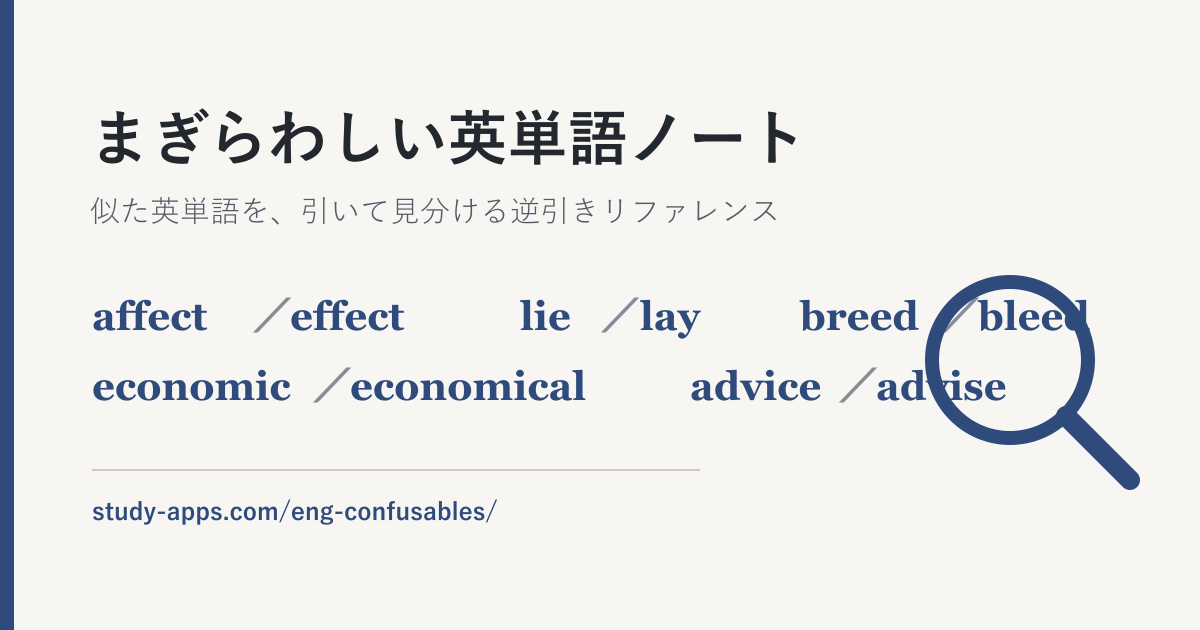
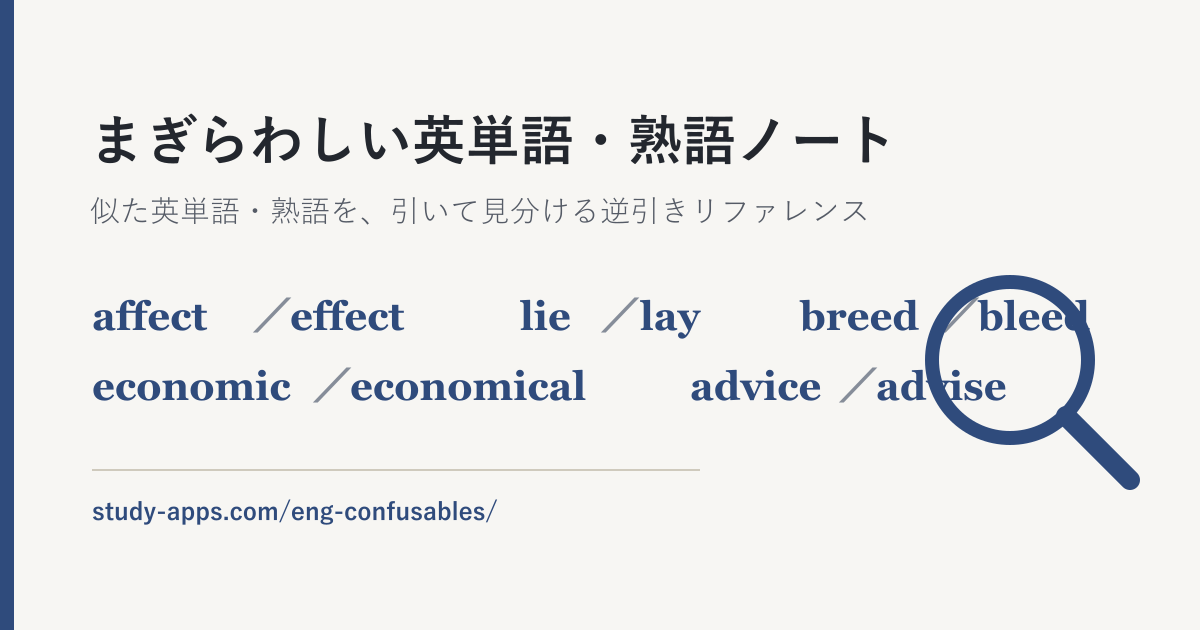
feat: O-1-5の器を用意（第5章「熟語・句動詞」の骨格・サイト名を単語→単語・熟語に更新）
第5章の内容執筆はO-1-1完了後（chapters.ts/App.tsxのカテゴリ配列に5を追加のみ、
モジュールは未追加）。サイト名・meta・OGP画像・about/privacyページの文言を
「まぎらわしい英単語ノート」→「まぎらわしい英単語・熟語ノート」に更新。
ポータルのSITES_REGISTRYは②のdeploy:root経由のため未変更。

Claude-Session: https://claude.ai/code/session_01Rg34mRc3nC2baRhoM6eXDv

Changed region(s): [[0.0617, 0.1508, 0.74, 0.2714], [0.185, 0.3016, 0.6783, 0.3619]]

diff --git a/index.html b/index.html
@@ -4,17 +4,17 @@
     <meta charset="UTF-8" />
     <link rel="icon" type="image/svg+xml" href="./favicon.svg" />
     <meta name="viewport" content="width=device-width, initial-scale=1.0" />
-    <title>まぎらわしい英単語ノート｜似た英単語を引いて見分ける</title>
-    <meta name="description" content="affect/effect、lie/lay、breed/bleed…スペル・意味・品詞・発音が似て混同しやすい英単語を、引いてすぐ違いと使い分けがわかる逆引きの比較リファレンス。比較表と例文つき。" />
-    <meta property="og:title" content="まぎらわしい英単語ノート" />
-    <meta property="og:description" content="似て混同しやすい英単語を、比較表と例文で引いて見分ける逆引きリファレンス。" />
+    <title>まぎらわしい英単語・熟語ノート｜似た英単語・熟語を引いて見分ける</title>
+    <meta name="description" content="affect/effect、lie/lay、breed/bleed…スペル・意味・品詞・発音が似て混同しやすい英単語、account for/account to のような紛らわしい熟語・句動詞を、引いてすぐ違いと使い分けがわかる逆引きの比較リファレンス。比較表と例文つき。" />
+    <meta property="og:title" content="まぎらわしい英単語・熟語ノート" />
+    <meta property="og:description" content="似て混同しやすい英単語・熟語を、比較表と例文で引いて見分ける逆引きリファレンス。" />
     <meta property="og:type" content="website" />
     <meta property="og:url" content="https://study-apps.com/eng-confusables/" />
     <link rel="canonical" href="https://study-apps.com/eng-confusables/" />
     <meta property="og:image" content="https://study-apps.com/eng-confusables/ogp.png" />
     <meta name="twitter:card" content="summary_large_image" />
-    <meta name="twitter:title" content="まぎらわしい英単語ノート" />
-    <meta name="twitter:description" content="似て混同しやすい英単語を、比較表と例文で引いて見分ける逆引きリファレンス。" />
+    <meta name="twitter:title" content="まぎらわしい英単語・熟語ノート" />
+    <meta name="twitter:description" content="似て混同しやすい英単語・熟語を、比較表と例文で引いて見分ける逆引きリファレンス。" />
     <meta name="twitter:image" content="https://study-apps.com/eng-confusables/ogp.png" />
     <!-- Google tag (gtag.js) -->
     <script async src="https://www.googletagmanager.com/gtag/js?id=G-G6K27V3P4S"></script>

diff --git a/src/App.tsx b/src/App.tsx
@@ -162,7 +162,7 @@ function Header({ route, navigate, menuOpen, setMenuOpen }: {
     <header className="site-header">
       <div className="header-inner">
         <a className="brand" href={`${BASE}/`} onClick={(e) => { e.preventDefault(); navigate({ view: 'home' }); }}>
-          まぎらわしい英単語ノート
+          まぎらわしい英単語・熟語ノート
         </a>
         <button className="menu-toggle" aria-label="メニュー" aria-expanded={menuOpen} onClick={() => setMenuOpen(!menuOpen)}>
           <span /><span /><span />
@@ -190,12 +190,12 @@ function Home({ navigate }: { navigate: (r: Route) => void }) {
     });
   }, [query, cat]);
 
-  const cats = [1, 2, 3, 4];
+  const cats = [1, 2, 3, 4, 5];
 
   return (
     <div className="home">
       <section className="hero">
-        <h1>まぎらわしい英単語を、引いて見分ける</h1>
+        <h1>まぎらわしい英単語・熟語を、引いて見分ける</h1>
         <p className="hero-lead">{SITE_META.approach}。{modules.length}組の混同ペアを、比較表とミニ問題でまとめました。</p>
         <div className="search-box">
           <Search size={18} aria-hidden="true" />
@@ -292,7 +292,7 @@ function AboutPage() {
       <h1>このサイトについて</h1>
 
       <h2>サイトの目的と対象</h2>
-      <p>「まぎらわしい英単語ノート」は、スペル・意味・品詞・発音が似ていて混同しやすい英単語のペアを、引いてすぐに違いと使い分けが分かるようにまとめた逆引きの比較リファレンスです。{SITE_META.audience}を主な対象としています。</p>
+      <p>「まぎらわしい英単語・熟語ノート」は、スペル・意味・品詞・発音が似ていて混同しやすい英単語のペア、および前置詞や副詞の違いで意味が変わる紛らわしい熟語・句動詞のペアを、引いてすぐに違いと使い分けが分かるようにまとめた逆引きの比較リファレンスです。{SITE_META.audience}を主な対象としています。</p>
 
       <h2>コンテンツ構成</h2>
       <p>混同しやすい語を「スペルが似ている語」「意味が近い語」「品詞・派生でまぎらわしい語」「発音が似ている語」の4カテゴリに分け、1ペア（または自然な語群）を1ページにまとめています。各ページに比較表・例文・覚え方・任意の確認問題を用意しています。</p>

diff --git a/scripts/generate-ogp.ts b/scripts/generate-ogp.ts
@@ -11,8 +11,8 @@ const SERIF = "Georgia,'Times New Roman',serif";
 const svg = `<svg xmlns="http://www.w3.org/2000/svg" width="1200" height="630" viewBox="0 0 1200 630">
   <rect width="1200" height="630" fill="#f7f6f3"/>
   <rect x="0" y="0" width="14" height="630" fill="#2f4b7c"/>
-  <text x="90" y="160" font-family="${FONT}" font-size="60" font-weight="700" fill="#23272e">まぎらわしい英単語ノート</text>
-  <text x="90" y="222" font-family="${FONT}" font-size="30" fill="#555b66">似た英単語を、引いて見分ける逆引きリファレンス</text>
+  <text x="90" y="160" font-family="${FONT}" font-size="54" font-weight="700" fill="#23272e">まぎらわしい英単語・熟語ノート</text>
+  <text x="90" y="222" font-family="${FONT}" font-size="30" fill="#555b66">似た英単語・熟語を、引いて見分ける逆引きリファレンス</text>
 
   <g font-family="${SERIF}" font-size="40" font-weight="700">
     <text x="92" y="330" fill="#2f4b7c">affect</text>

diff --git a/src/data/chapters.ts b/src/data/chapters.ts
@@ -1,11 +1,13 @@
 // src/data/chapters.ts — チャプター名の唯一のソース（SSOT）
 // 混同しやすい英単語を「なぜ混同するか」の原因別に4カテゴリに分ける。
+// 5章は熟語・句動詞（O-1-5）＝単語とは別の原因（前置詞・副詞が意味を変える）でまぎらわしい。
 // modules.ts の各モジュールの chapter フィールドはこの番号を参照する。
 export const chapterNames: Record<number, string> = {
   1: 'スペルが似ている語',
   2: '意味が近く使い分けが難しい語',
   3: '品詞・派生でまぎらわしい語',
   4: '発音が似ている語',
+  5: '熟語・句動詞でまぎらわしいもの',
 };
 
 // サイト全体の位置づけ（試験要件のような固定値ではなく、対象と方針）
